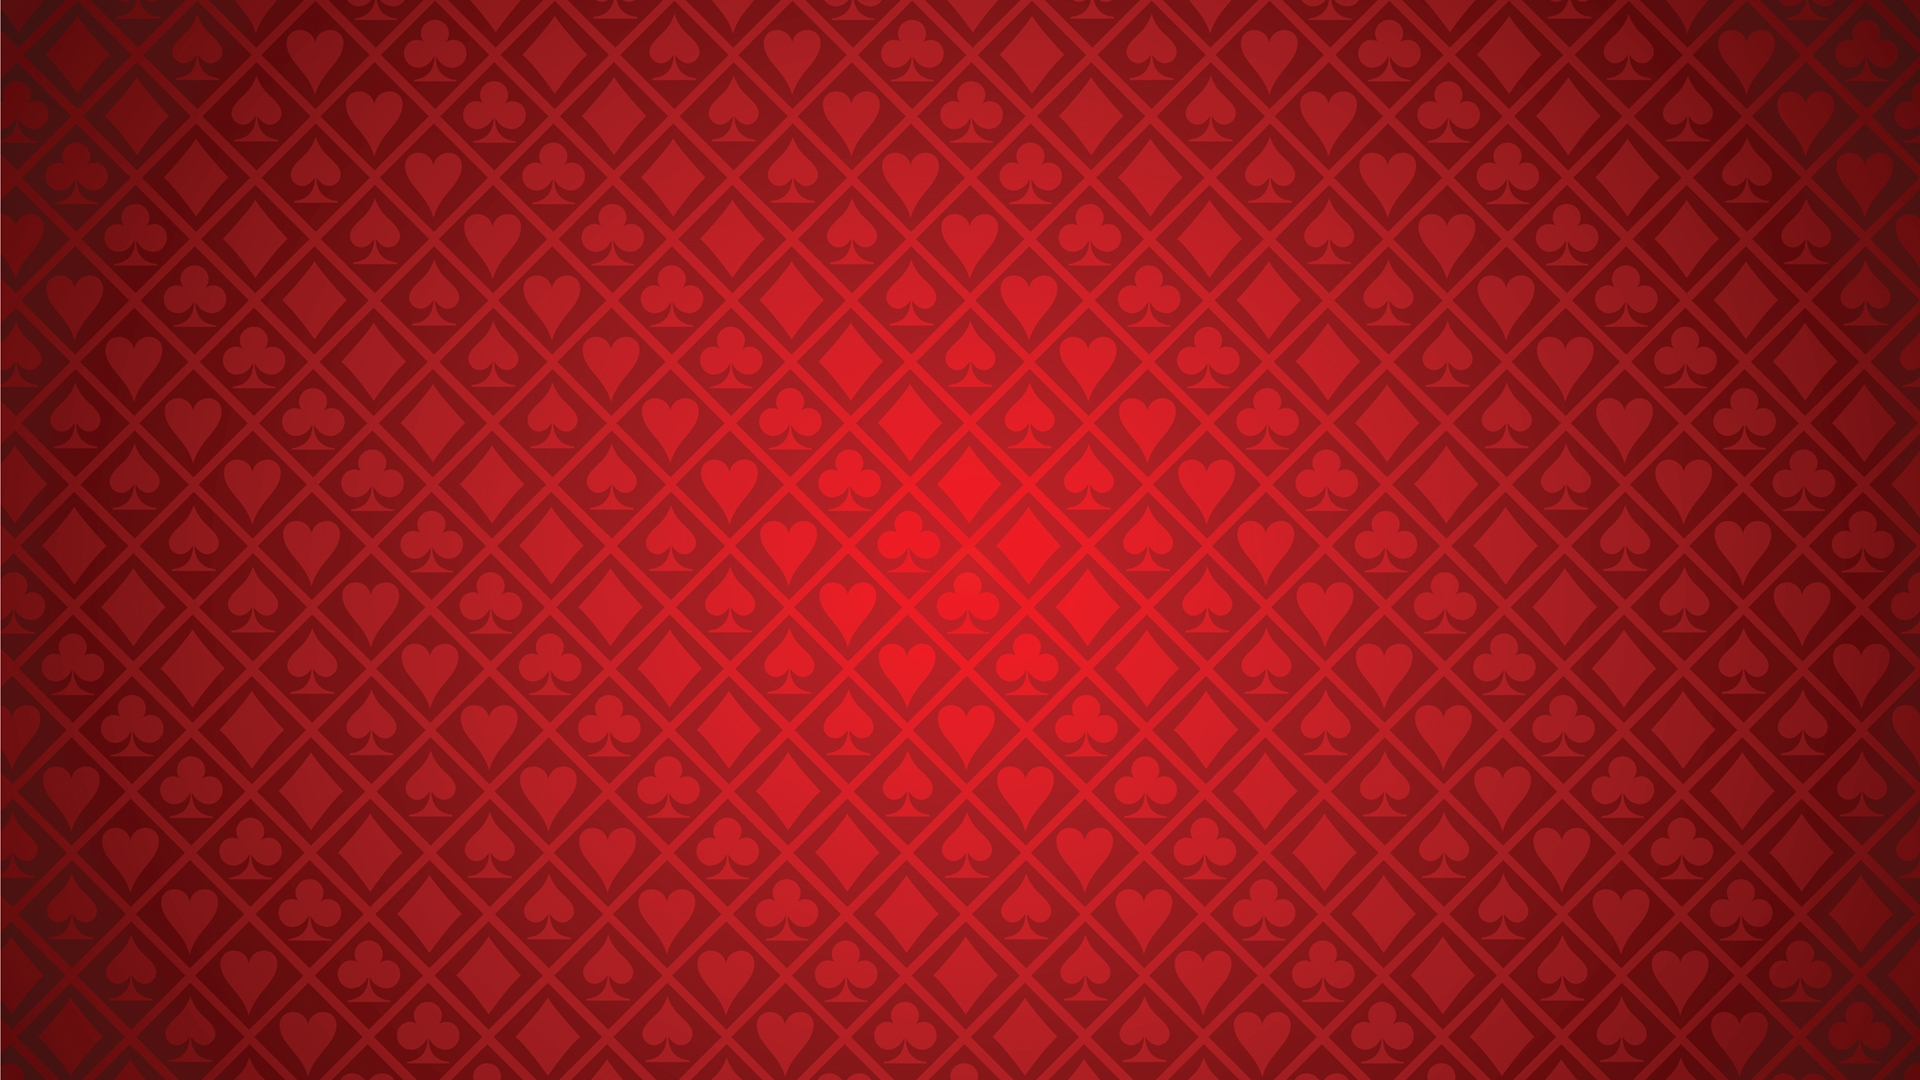
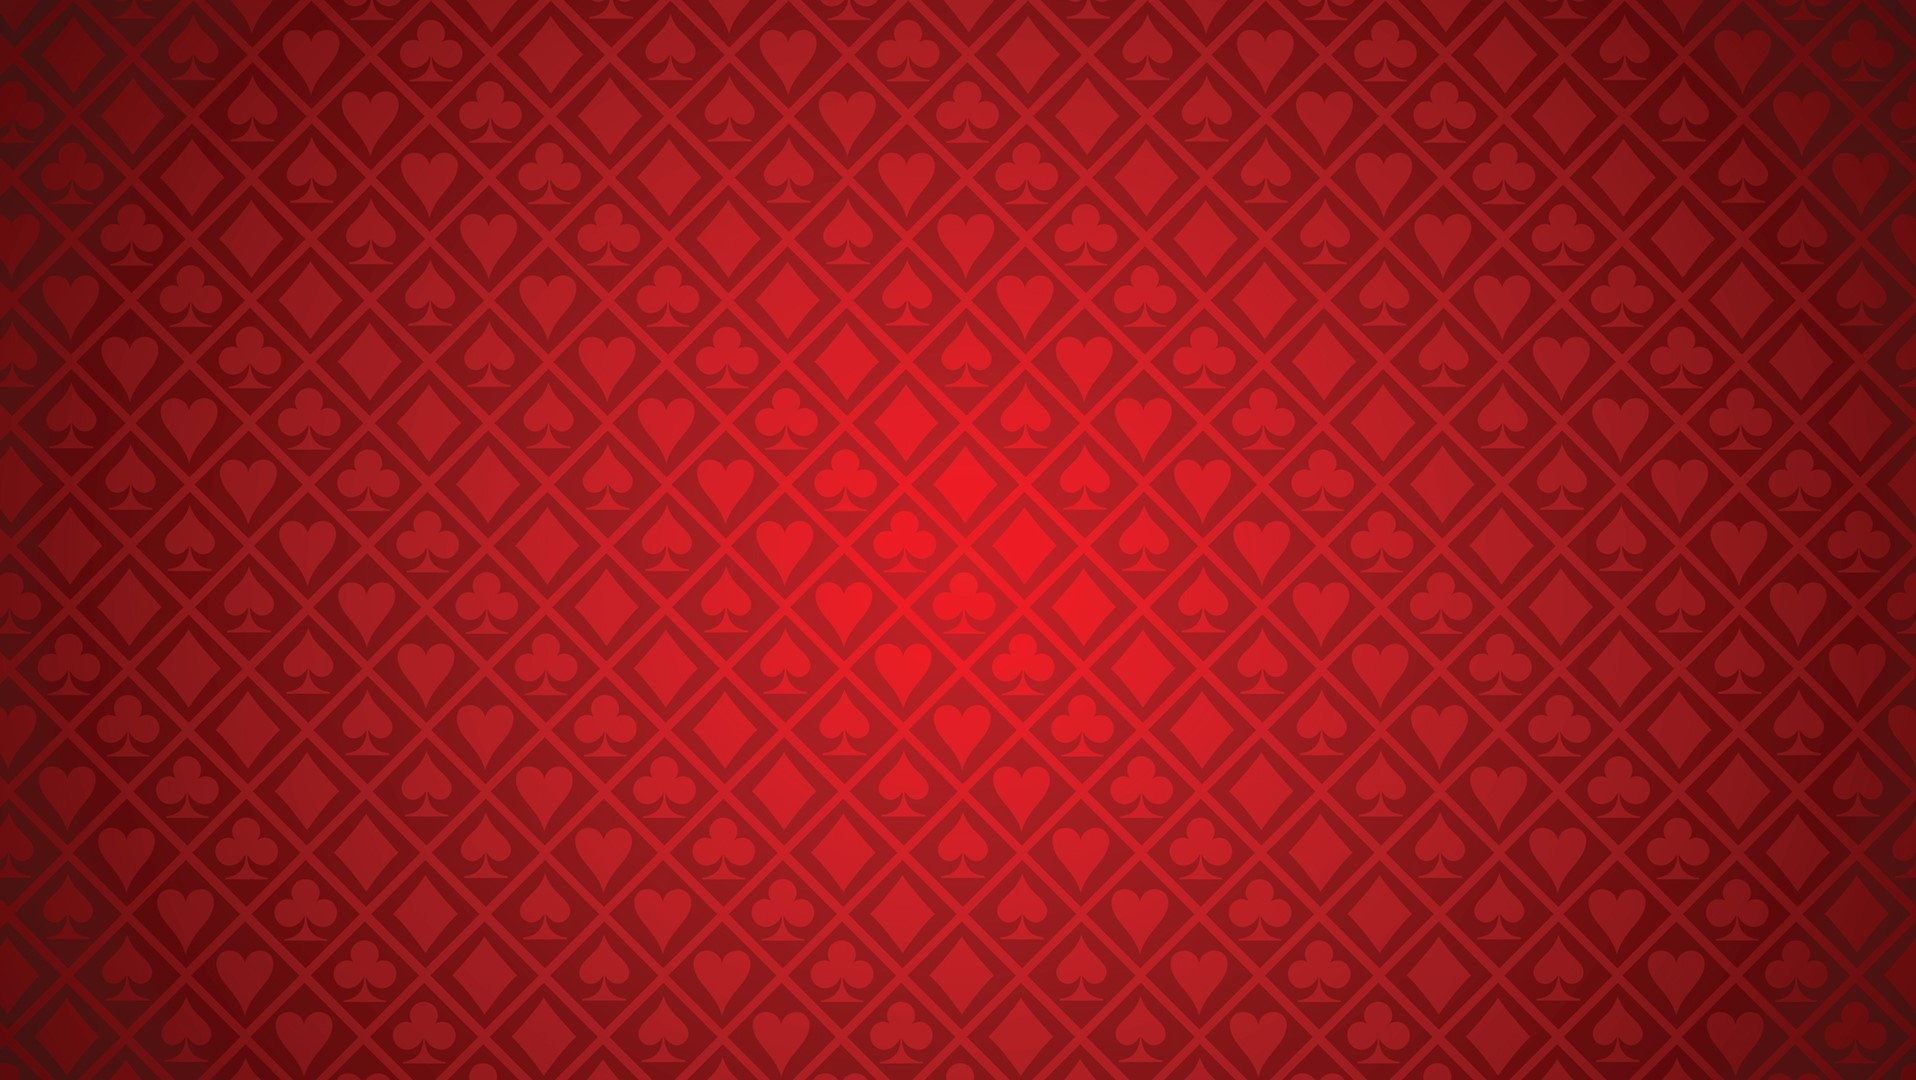
a couple of things added

diff --git a/src/views/Spinner.vue b/src/views/Spinner.vue
@@ -1,12 +1,9 @@
 <template>
   <v-container>
-    <v-dialog
-        max-width="290"
-        v-model="slotMachineTurnedOn"
-        transition="false"
-    >
-      <SlotMachineAnimation/>
-    </v-dialog>
+    <Modal v-if="slotMachineTurnedOn">
+      <SlotMachineAnimation slot="animation"/>
+      max-width="290"
+    </Modal>
     <OperativeButtonsRow
         :daily-course="getDailyCourse"
         @start-daily="startDaily"
@@ -21,7 +18,6 @@
     <HistoryContainer
         v-if="getDailyCourse && getDailyCourse.finishedPeople.length"
         :finished-people="getDailyCourse.finishedPeople"
-        :bigger-scale="!getActivePerson && !getActiveClock"
     />
   </v-container>
 </template>
@@ -31,13 +27,14 @@ import {actions as spinnerActions, getters as spinnerGetters} from '@/store/modu
 import {getters as configGetters} from '@/store/modules/configuration/configuration.module';
 import {DailyCourse} from "@/model/spinner/DailyCourse.model";
 import OperativeButtonsRow from "@/components/spinner/OperativeButtonsRow";
+import Modal from "@/components/spinner/Modal";
 import SlotMachineAnimation from "@/components/spinner/SlotMachineAnimation";
 import SpeakerPanel from "@/components/spinner/SpeakerPanel";
 import HistoryContainer from "@/components/spinner/HistoryContainer";
 
 export default {
   name: "Spinner",
-  components: {HistoryContainer, SpeakerPanel, SlotMachineAnimation, OperativeButtonsRow},
+  components: {HistoryContainer, SpeakerPanel, Modal, SlotMachineAnimation, OperativeButtonsRow},
   data() {
     return {
       slotMachineTurnedOn: false
@@ -57,17 +54,21 @@ export default {
       return spinnerGetters.activeClock()
     }
   },
-  //todo w widoku spinnera: fix tapety, dodanie modalu animacji na nast. osoby, animacje kartek, testy na tel.
+  //todo w widoku spinnera: animacje kartek, testy na tel.
   methods: {
     startDaily() {
-      this.turnOnDrawingAnimation()
-      setTimeout(() => {
-        this.turnOffDrawingAnimation()
-        spinnerActions.startDaily(new DailyCourse(this.getConfig))
-      }, 5000)
+      const currentConfig = this.getConfig
+      this.invokeActionAfterAnimation(
+          () => spinnerActions.startDaily(new DailyCourse(currentConfig)),
+          4900
+      )
     },
     nextPerson() {
-      spinnerActions.nextPerson()
+      spinnerActions.stopClock()
+      this.invokeActionAfterAnimation(
+          () => spinnerActions.nextPerson(),
+          4900
+      )
     },
     finishDaily() {
       spinnerActions.finishDaily()
@@ -83,6 +84,13 @@ export default {
     },
     turnOffDrawingAnimation() {
       this.slotMachineTurnedOn = false
+    },
+    invokeActionAfterAnimation(action, timeout) {
+      this.turnOnDrawingAnimation()
+      setTimeout(() => {
+        this.turnOffDrawingAnimation()
+        action()
+      }, timeout)
     }
   },
   watch: {

diff --git a/src/store/modules/spinner/spinner.module.js b/src/store/modules/spinner/spinner.module.js
@@ -18,10 +18,12 @@ export const actions = {
         activePersonActions.setActivePerson(drawPerson(getters.dailyCourse().notFinishedPeople))
         activeClockActions.setActiveClock(new Clock(dailyCourse.timePerPerson))
     },
+    stopClock: () => activeClockActions.stopClock(),
     nextPerson: function () {
         dailyCourseActions.transferDailyPerson(activePersonGetters.activePerson(), convertSecToMin(activeClockGetters.activeClock().timeElapsed))
         activeClockActions.resetClock()
         activePersonActions.setActivePerson(drawPerson(getters.dailyCourse().notFinishedPeople))
+        activeClockActions.startClock()
     },
     finishDaily: function () {
         dailyCourseActions.transferDailyPerson(activePersonGetters.activePerson(), convertSecToMin(activeClockGetters.activeClock().timeElapsed))

diff --git a/src/components/spinner/SpeakerPanel.vue b/src/components/spinner/SpeakerPanel.vue
@@ -1,14 +1,17 @@
 <template>
   <v-row justify="center">
     <v-card
-      color="red"
-      width="500"
-      class="ma-3"
+        color="red"
+        width="500"
+        class="ma-3"
     >
       <v-row>
         <v-col>
           <p class="speaker">
-            Now speaks: {{speaker.name}}
+            Now speaks:
+            <span class="person-name-span">
+              {{ speaker.name }}
+            </span>
           </p>
         </v-col>
       </v-row>
@@ -24,6 +27,7 @@
 <script>
 
 import Clock from "@/components/spinner/Clock";
+
 export default {
   name: "SpeakerPanel",
   components: {Clock},
@@ -52,6 +56,10 @@ export default {
   letter-spacing: 0.03em;
   font-size: 30px;
   margin-bottom: 0;
+}
+
+.person-name-span {
+  font-weight: bold;
 }
 
 </style>

diff --git a/src/components/spinner/HistoryContainer.vue b/src/components/spinner/HistoryContainer.vue
@@ -4,7 +4,6 @@
         color="red"
         width="700"
         class="ma-3"
-        :class="{'card-container': !biggerScale, 'card-container-bigger-scale': biggerScale}"
     >
       <template v-for="person in finishedPeople">
         <v-row
@@ -29,27 +28,12 @@ export default {
     finishedPeople: {
       type: Array,
       required: true
-    },
-    biggerScale: {
-      type: Boolean,
-      default: () => false
     }
   }
 }
 </script>
 
 <style scoped>
-
-.card-container {
-  max-height: 39vh;
-  overflow-y: auto;
-}
-
-.card-container-bigger-scale {
-  max-height: 78vh;
-  overflow-y: auto;
-  overflow-x: hidden;
-}
 
 .margin-left-right {
   margin-left: 0;

diff --git a/src/App.vue b/src/App.vue
@@ -26,19 +26,13 @@ export default {
   text-align: center;
   background-image: url(./assets/wallpaper/casino.jpg);
   background-size: cover;
-  height: 100%;
-  margin-left: -2px;
+  background-repeat: no-repeat;
+  background-attachment: fixed;
 }
 
 /*styles needed for hide vuetify automatic scrollbar*/
 html {
-  overflow: hidden !important;
-  scrollbar-width: none;
-  -ms-overflow-style: none;
+  overflow-y: auto !important;
 }
 
-html::-webkit-scrollbar {
-  width: 0;
-  height: 0;
-}
 </style>

diff --git a/src/components/spinner/Modal.vue b/src/components/spinner/Modal.vue
@@ -1,0 +1,36 @@
+<template>
+  <div class="modal-fader">
+    <slot name="animation"/>
+  </div>
+</template>
+
+<script>
+export default {
+  name: "Modal"
+}
+</script>
+
+<style scoped>
+
+.modal-fader {
+  position: fixed;
+  top: 0;
+  left: 0;
+  right: 0;
+  bottom: 0;
+  background-color: rgba(0, 0, 0, 0.5);
+  z-index: 99;
+  animation: slideIn;
+  animation-duration: 0.3s;
+}
+
+@keyframes slideIn {
+  from {
+    opacity: 0;
+  }
+  to {
+    opacity: 1;
+  }
+}
+
+</style>

diff --git a/src/templates/configuration/configuration.template.js b/src/templates/configuration/configuration.template.js
@@ -3,6 +3,11 @@ import {Person} from "@/model/common/Person.model";
 import allowedTime from "@/templates/configuration/allowedTime.template"
 
 const configTemplate = new Configuration(
-    [new Person("Włodek"), new Person("Marcin")], allowedTime[1].value)
+    [
+        new Person("Włodek"),
+        new Person("Marcin"),
+        new Person("Wojtek"),
+        new Person("Perun")
+    ], allowedTime[1].value)
 
 export default configTemplate

diff --git a/src/components/spinner/PersonStatisticsCard.vue b/src/components/spinner/PersonStatisticsCard.vue
@@ -5,7 +5,7 @@
       class="ma-1 statistics-card"
   >
     <v-row align="center">
-      <v-col>
+      <v-col class="person-name-column">
         {{personStatistics.name}}
       </v-col>
     </v-row>
@@ -50,6 +50,12 @@ export default {
 
 .statistics-card {
   font-family: Candara, serif;
+  font-size: 18px;
+}
+
+.person-name-column {
+  font-weight: bold;
+  font-size: 22px
 }
 
 </style>

diff --git a/src/store/modules/spinner/activeClock.module.js b/src/store/modules/spinner/activeClock.module.js
@@ -17,6 +17,8 @@ export const actions = {
         mutations.overrideActiveClock(clock)
         mutations.startClock()
     },
+    stopClock: () => mutations.stopClock(),
+    startClock: () => mutations.startClock(),
     resetClock: () => mutations.resetClock(),
     dismantleActiveClock: function () {
         mutations.stopClock()

diff --git a/src/components/spinner/SlotMachineAnimation.vue b/src/components/spinner/SlotMachineAnimation.vue
@@ -7,6 +7,7 @@
 <script>
 export default {
   name: "SlotMachineAnimation"
+  //todo add cooler animation and create ending opacity
 }
 </script>
 
